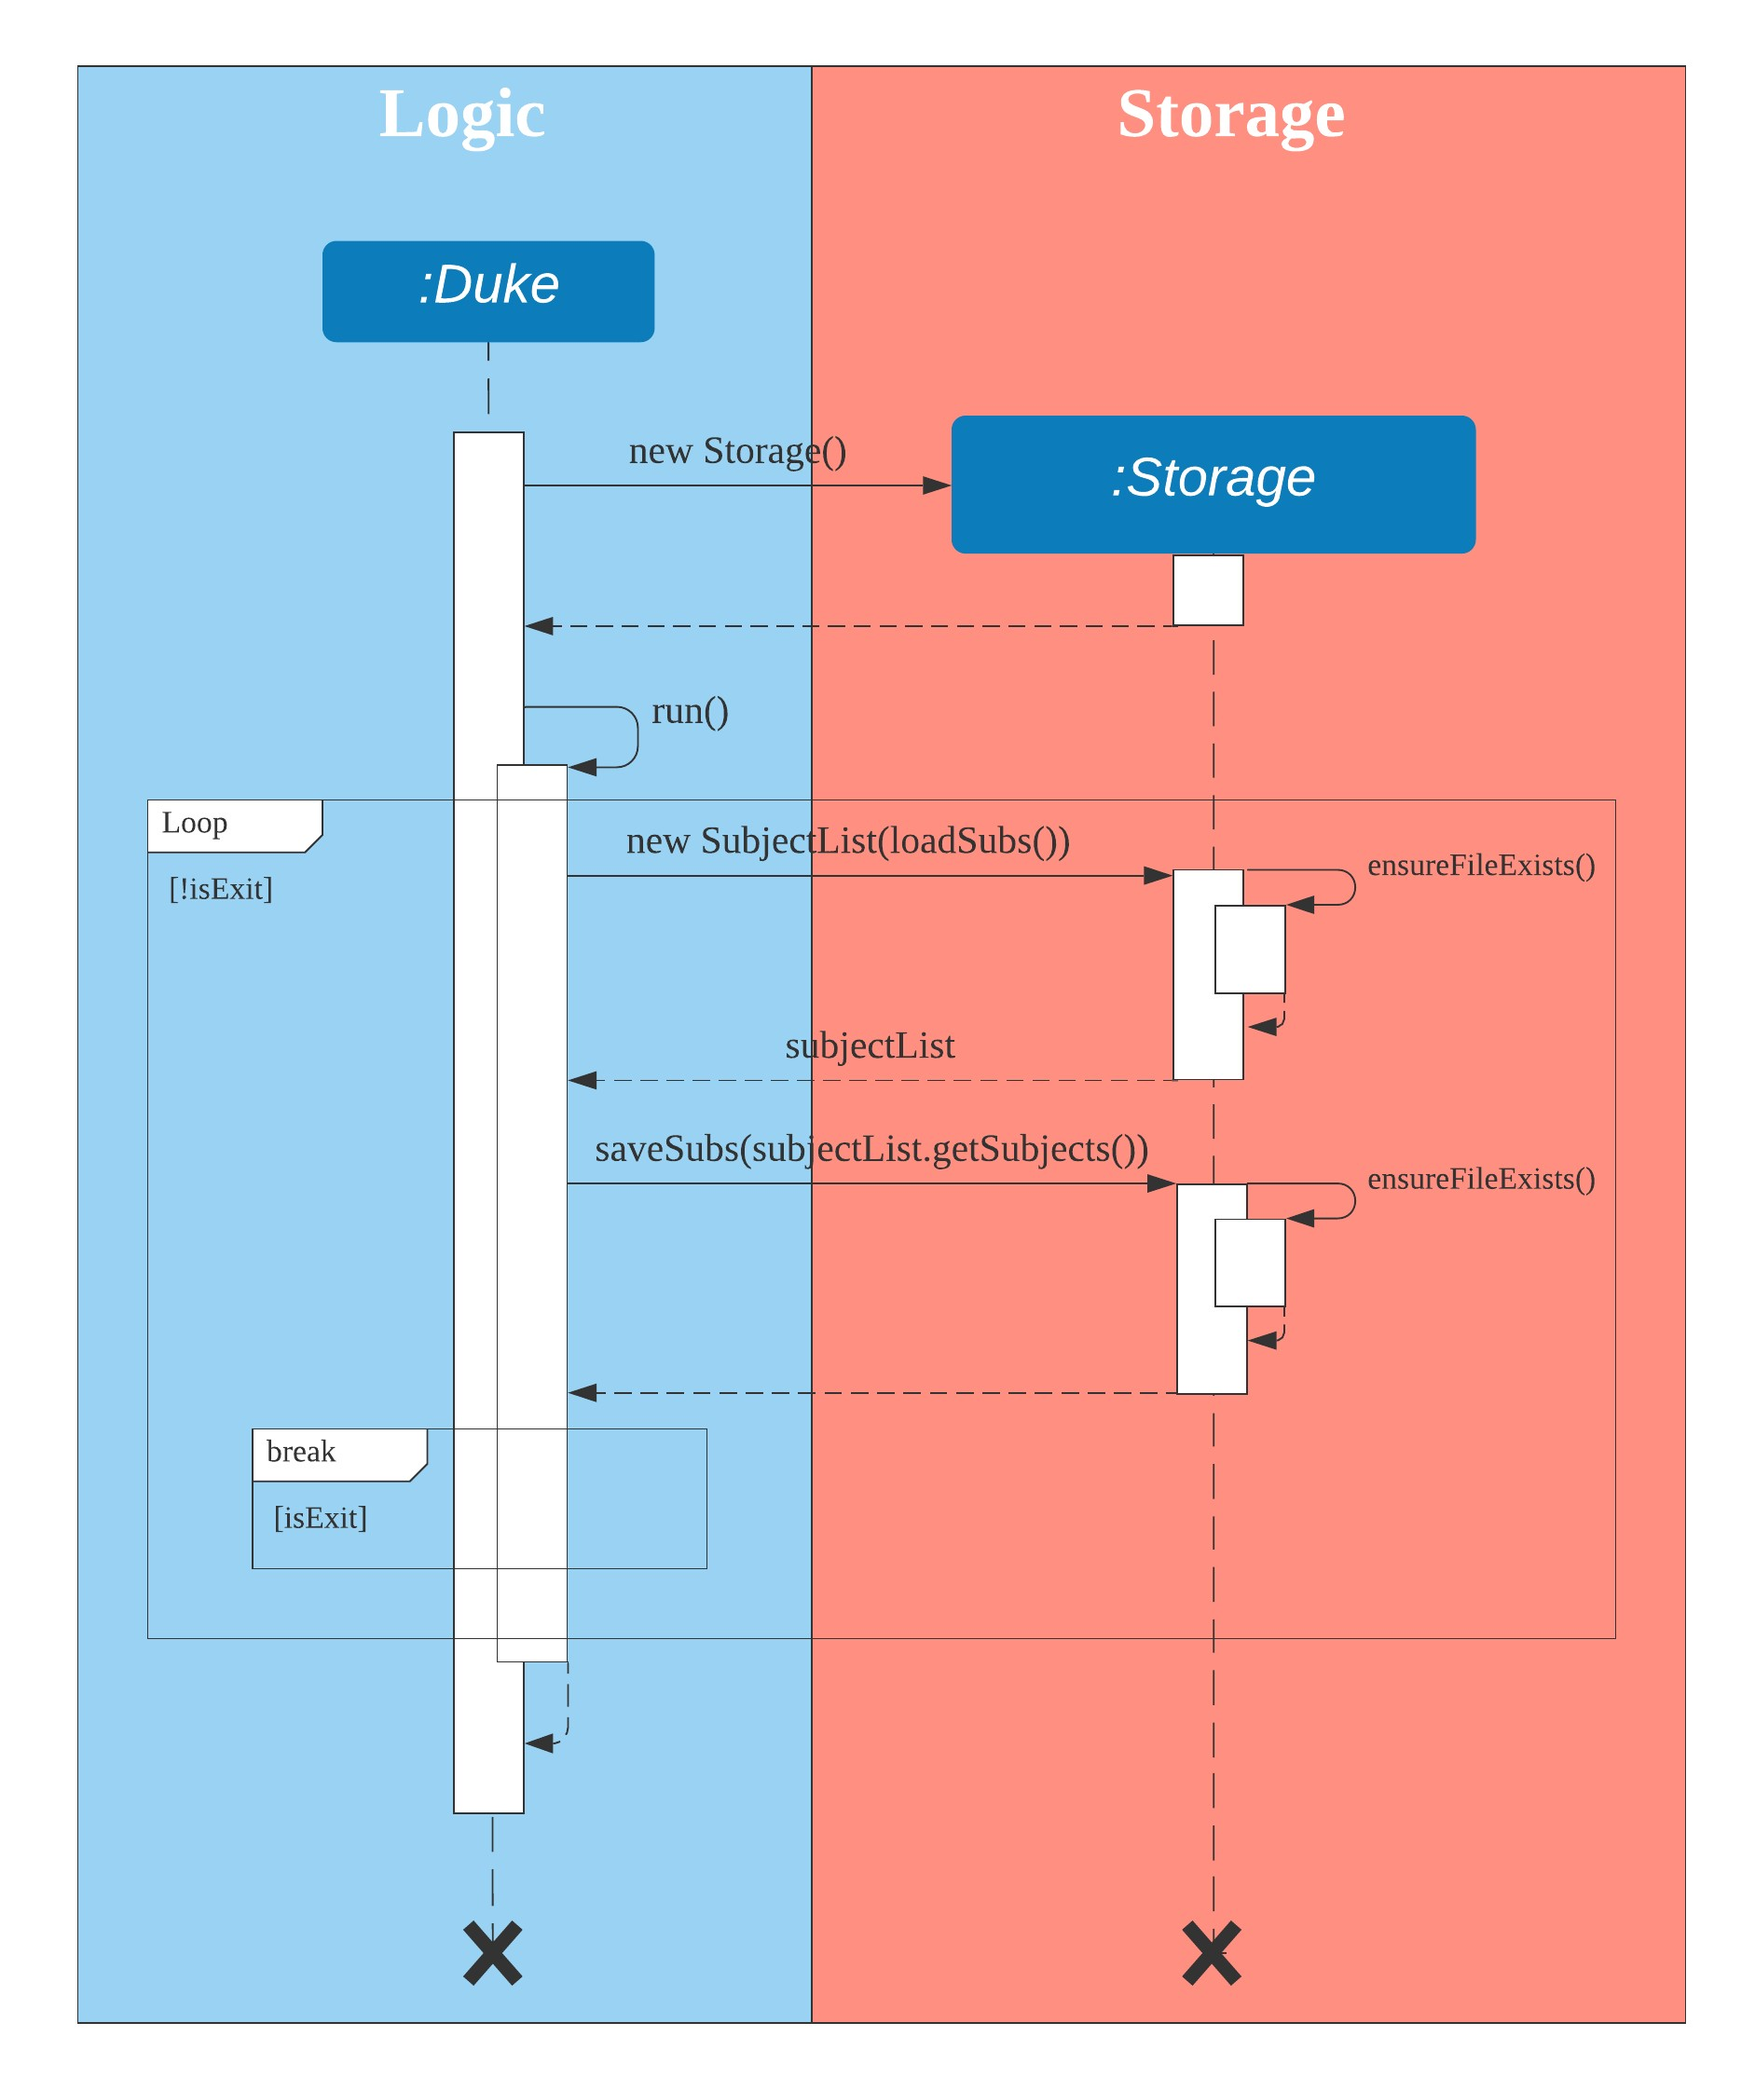
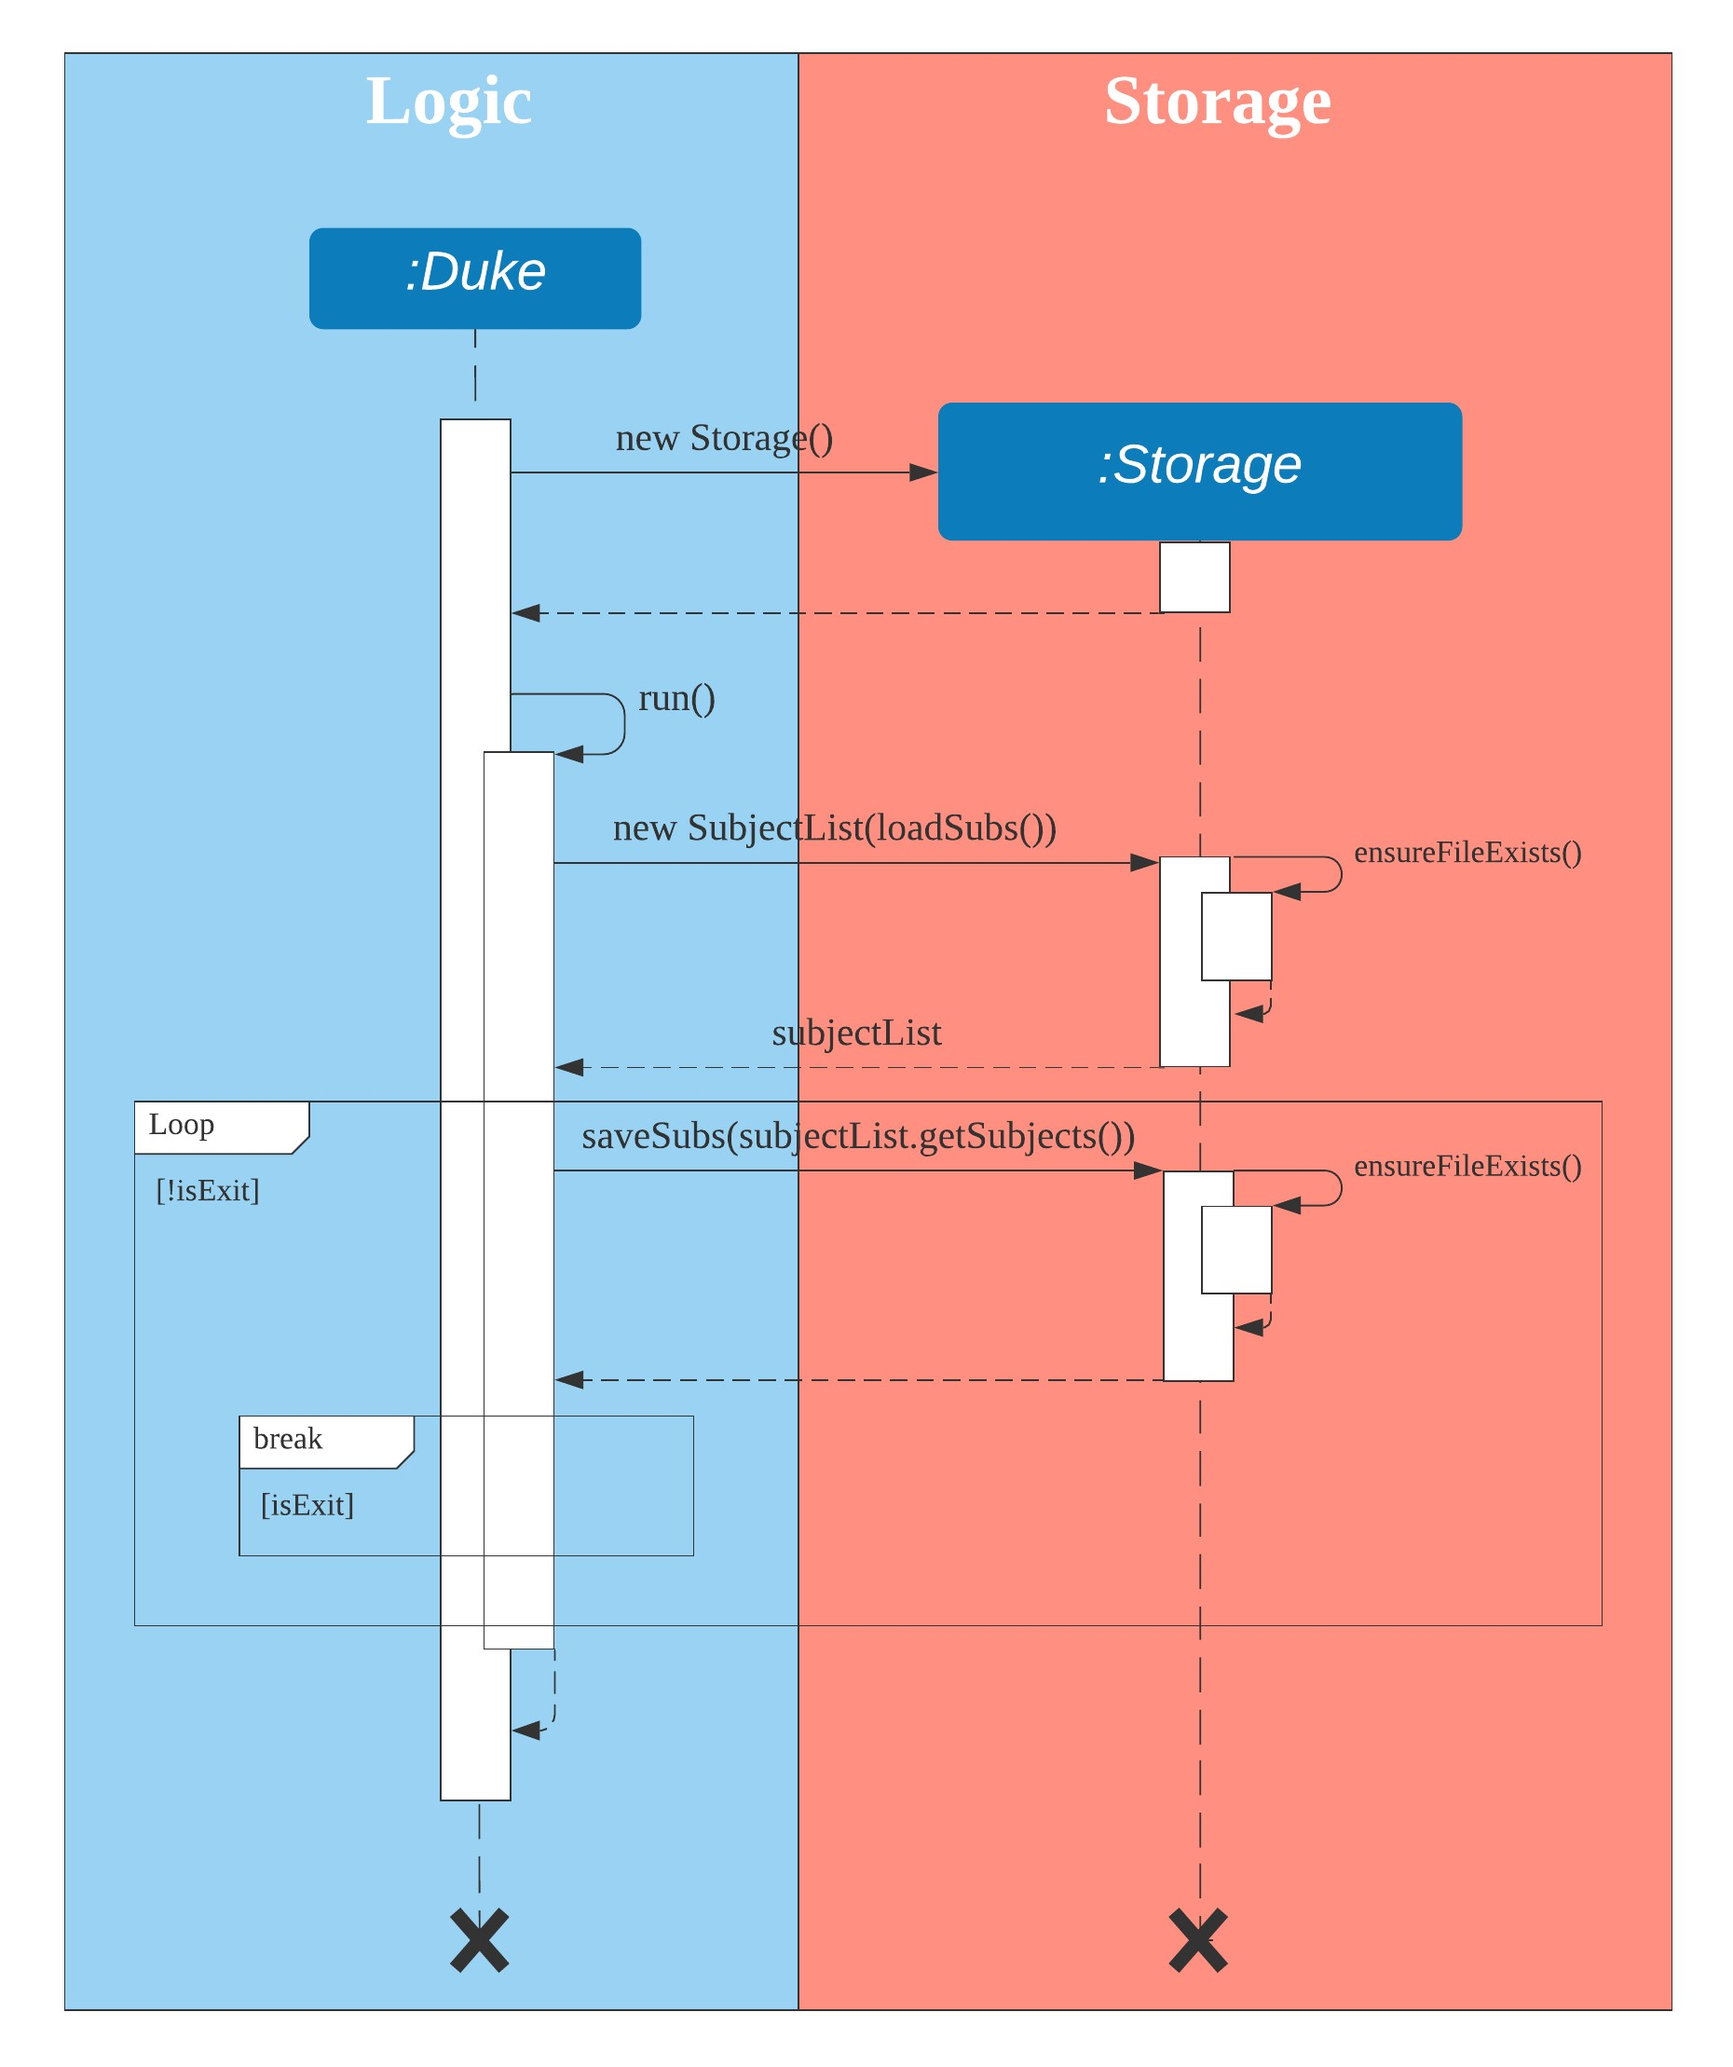
update storage images and description

diff --git a/docs/DeveloperGuide.md b/docs/DeveloperGuide.md
@@ -28,6 +28,7 @@ The product also contains the following components:
   * Cards: Holds the data in the type of Card and relative operations
   * Subjects: Holds the data in the type of Subject and relative operations
   * Score: Holds the data in the type of Score and relative operations
+  * Event: Holds the data in the type of Event and relative operations
 * Logic:
   * Commands: Deals with user input and communicate CLI to relative methods
   * Parser: Convert CLI inputs into command keywords
@@ -73,8 +74,8 @@ The flow of the logic component is as follows:
   <br />Figure 4. Class diagram of Model Component  
 </p>
 
-<br />Finally, the Storage box, i.e. Storage class will handle reading and writing the content to files.
-<br />The Storage component saves the SubjectList objects in Serializable format and loads it back.
+<br />Finally, the Storage box, i.e. Storage class will handle reading and writing of the contents to a file.
+<br />The Storage component saves and loads the SubjectList objects using Serializable.
 <br />
 <p align="center">
   <img src="images/storageuml.jpg" width="600" alt="Storage Class Diagram"/>
@@ -295,14 +296,29 @@ does not have to be tied to a pre-existing subject).
 The save/load process is facilitated with the `java.io.Serializable` interface, which converts the given object to a byte stream and back.
 Writing and reading from the file uses the `java.io.FileOutputStream` and `java.io.FileInputStream` classes respectively.
 
+The choice of the `java.io.Serializable` interface as a save/load function is because it maintains the object structure. 
+In addition, the implementation of the interface is easy and simple to understand as does not require much code, and does not require manipulation of raw data. 
+This ensures that it is easy to modify the Storage methods if other elements/objects are added to the structure.
+
 To serialize the object to be written to file via `java.io.FileOutputStream`, it makes use of the `java.io.ObjectOutputStream#writeObject` method.
 To deserialize the object after being read from file via `java.io.FileInputStream`, it uses the `java.io.ObjectInputStream#readObject()` method.
 
 The reading and writing functions can be found in the `Storage#loadSubs()` and `Storage#saveSubs()` methods respectively.
+
+`Storage#loadSubs()` is run on initialisation of the program. 
+It first checks if there is a preexisting saved file:
+* If there is a save file, the previous session is loaded into the program.
+* If there is no save file, a new save file is created and the default structure is initialised.
+
+`Storage#saveSubs()` is run after every command execution. 
+This ensures that if the program is force-exited or suddenly crashes, the last instruction has been saved.
+Once run, it will first check if the save file exists, in the event that the file has been deleted during the program. 
+If so, it will create the file, then the method will continue on to save the latest SubjectList structure into the save file. 
+
 <br />
 <p align="center">
   <img src="images/storage_sequence_uml.jpg" width="600" alt="Storage Sequence Diagram"/>
-  <br /> Figure 12. Sequence diagram of storage command  
+  <br /> Figure 12. Sequence diagram of Storage class  
 </p>
 
 ## Appendix A: Product Scope
